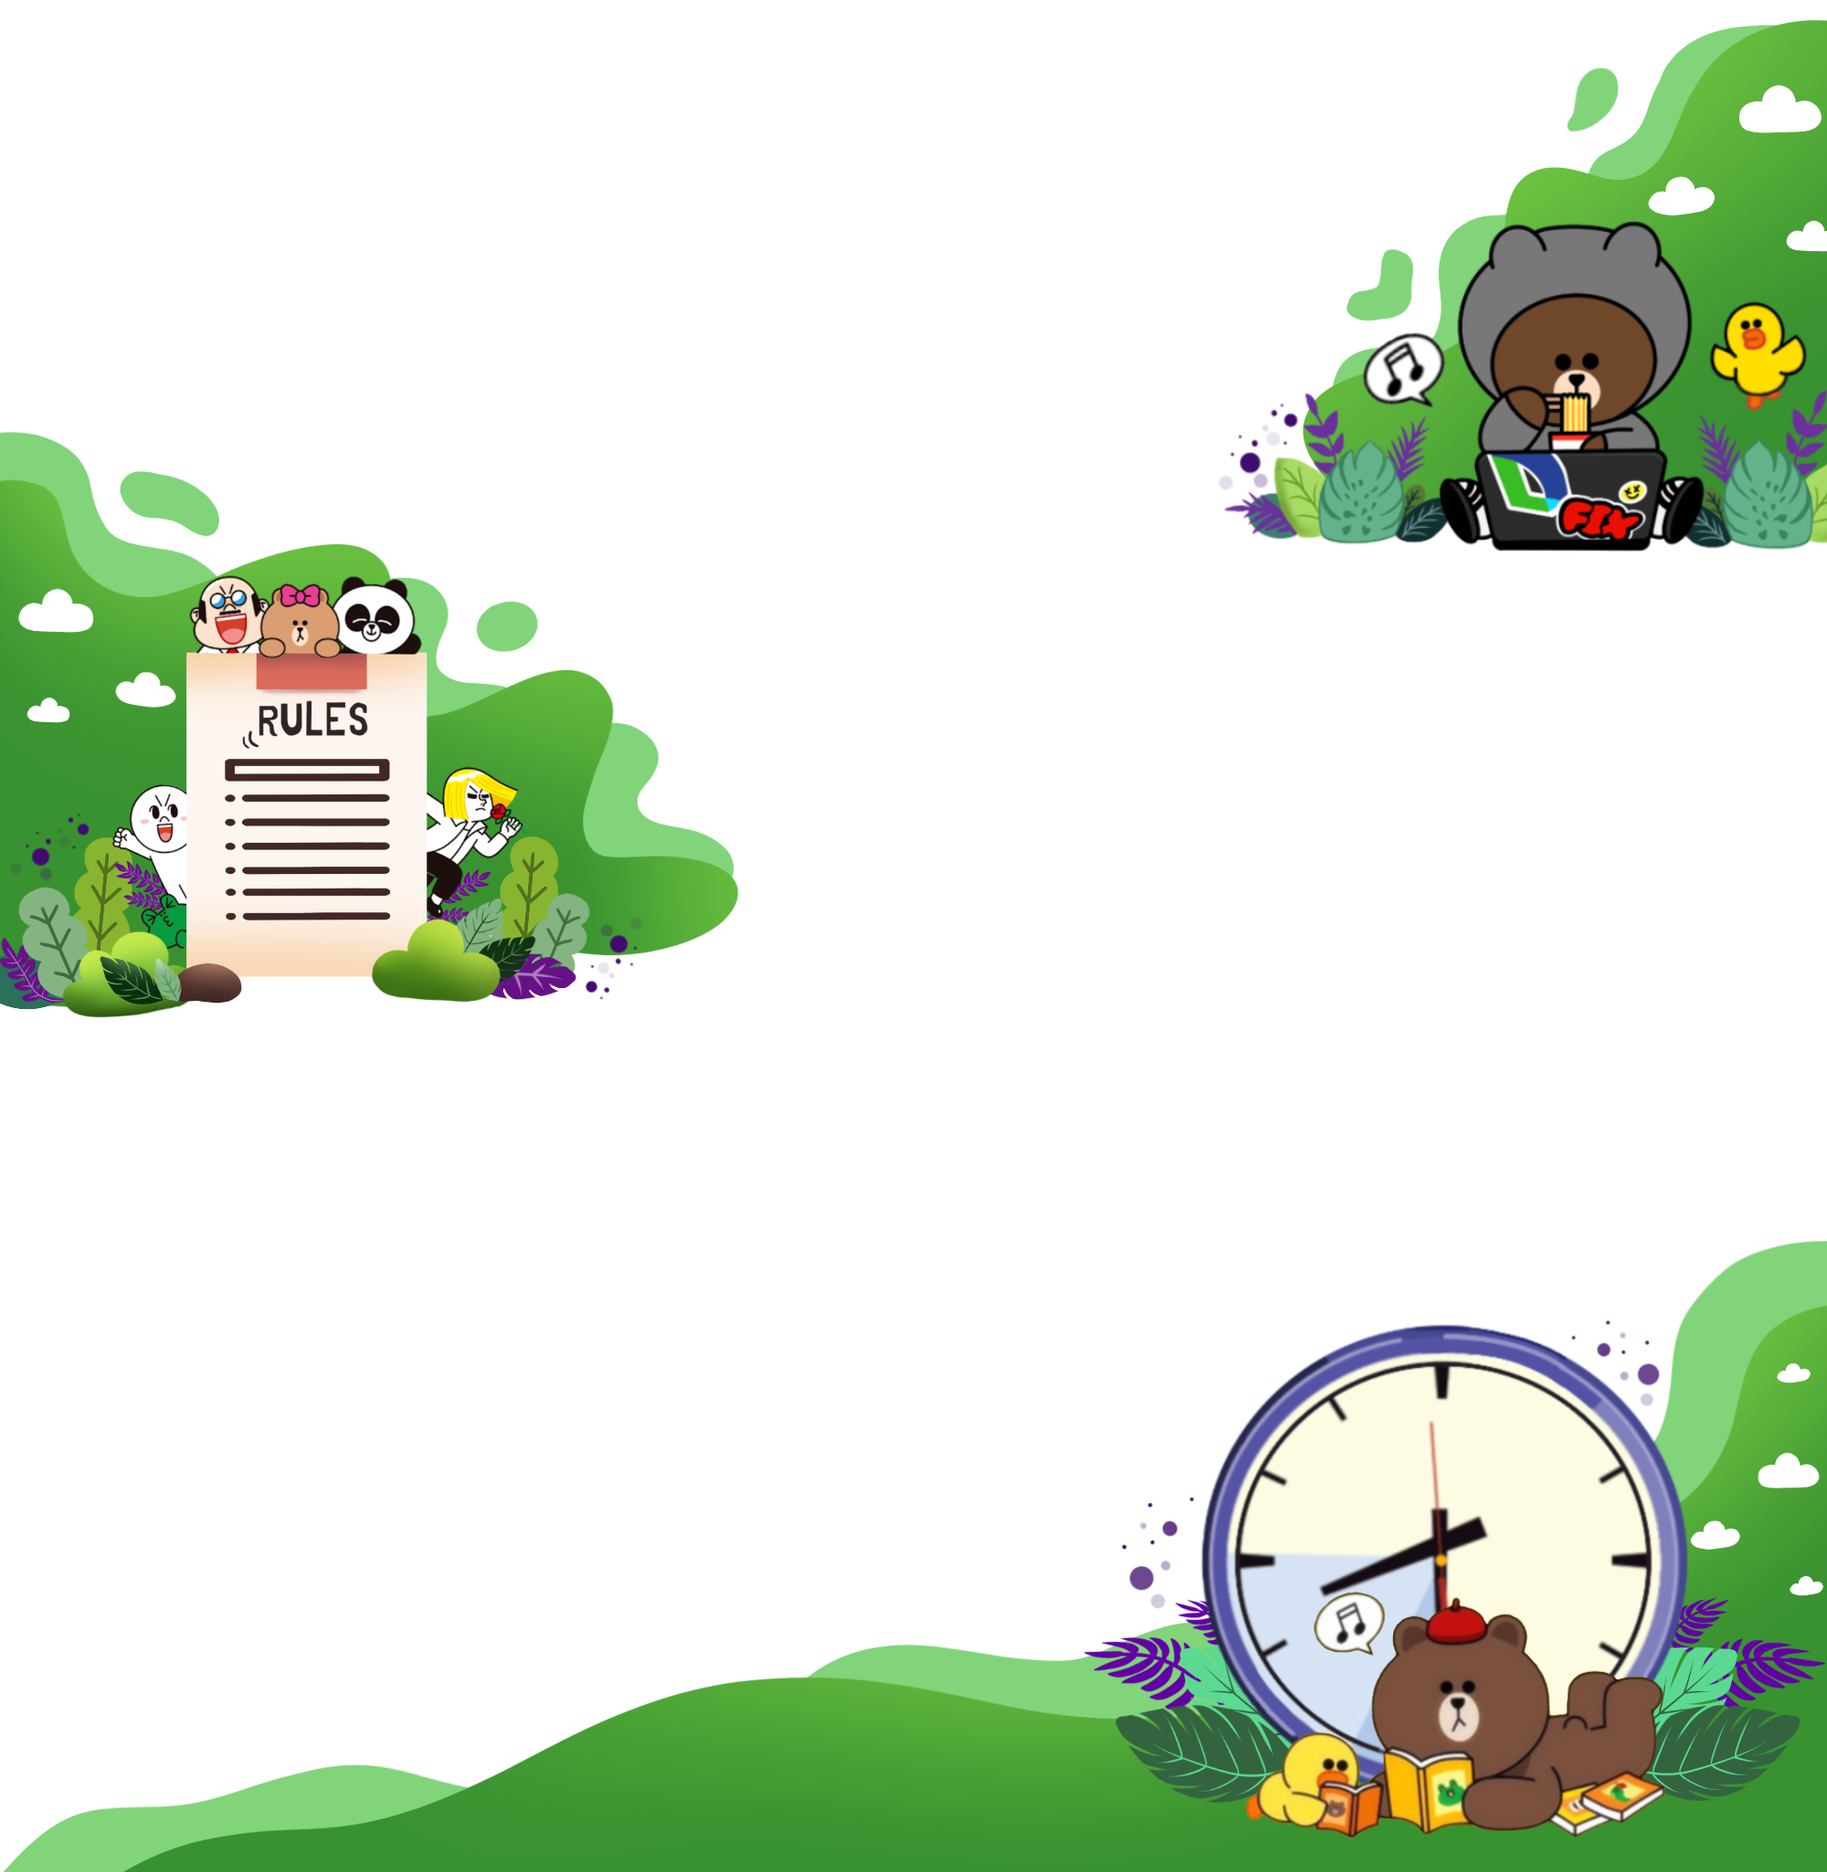
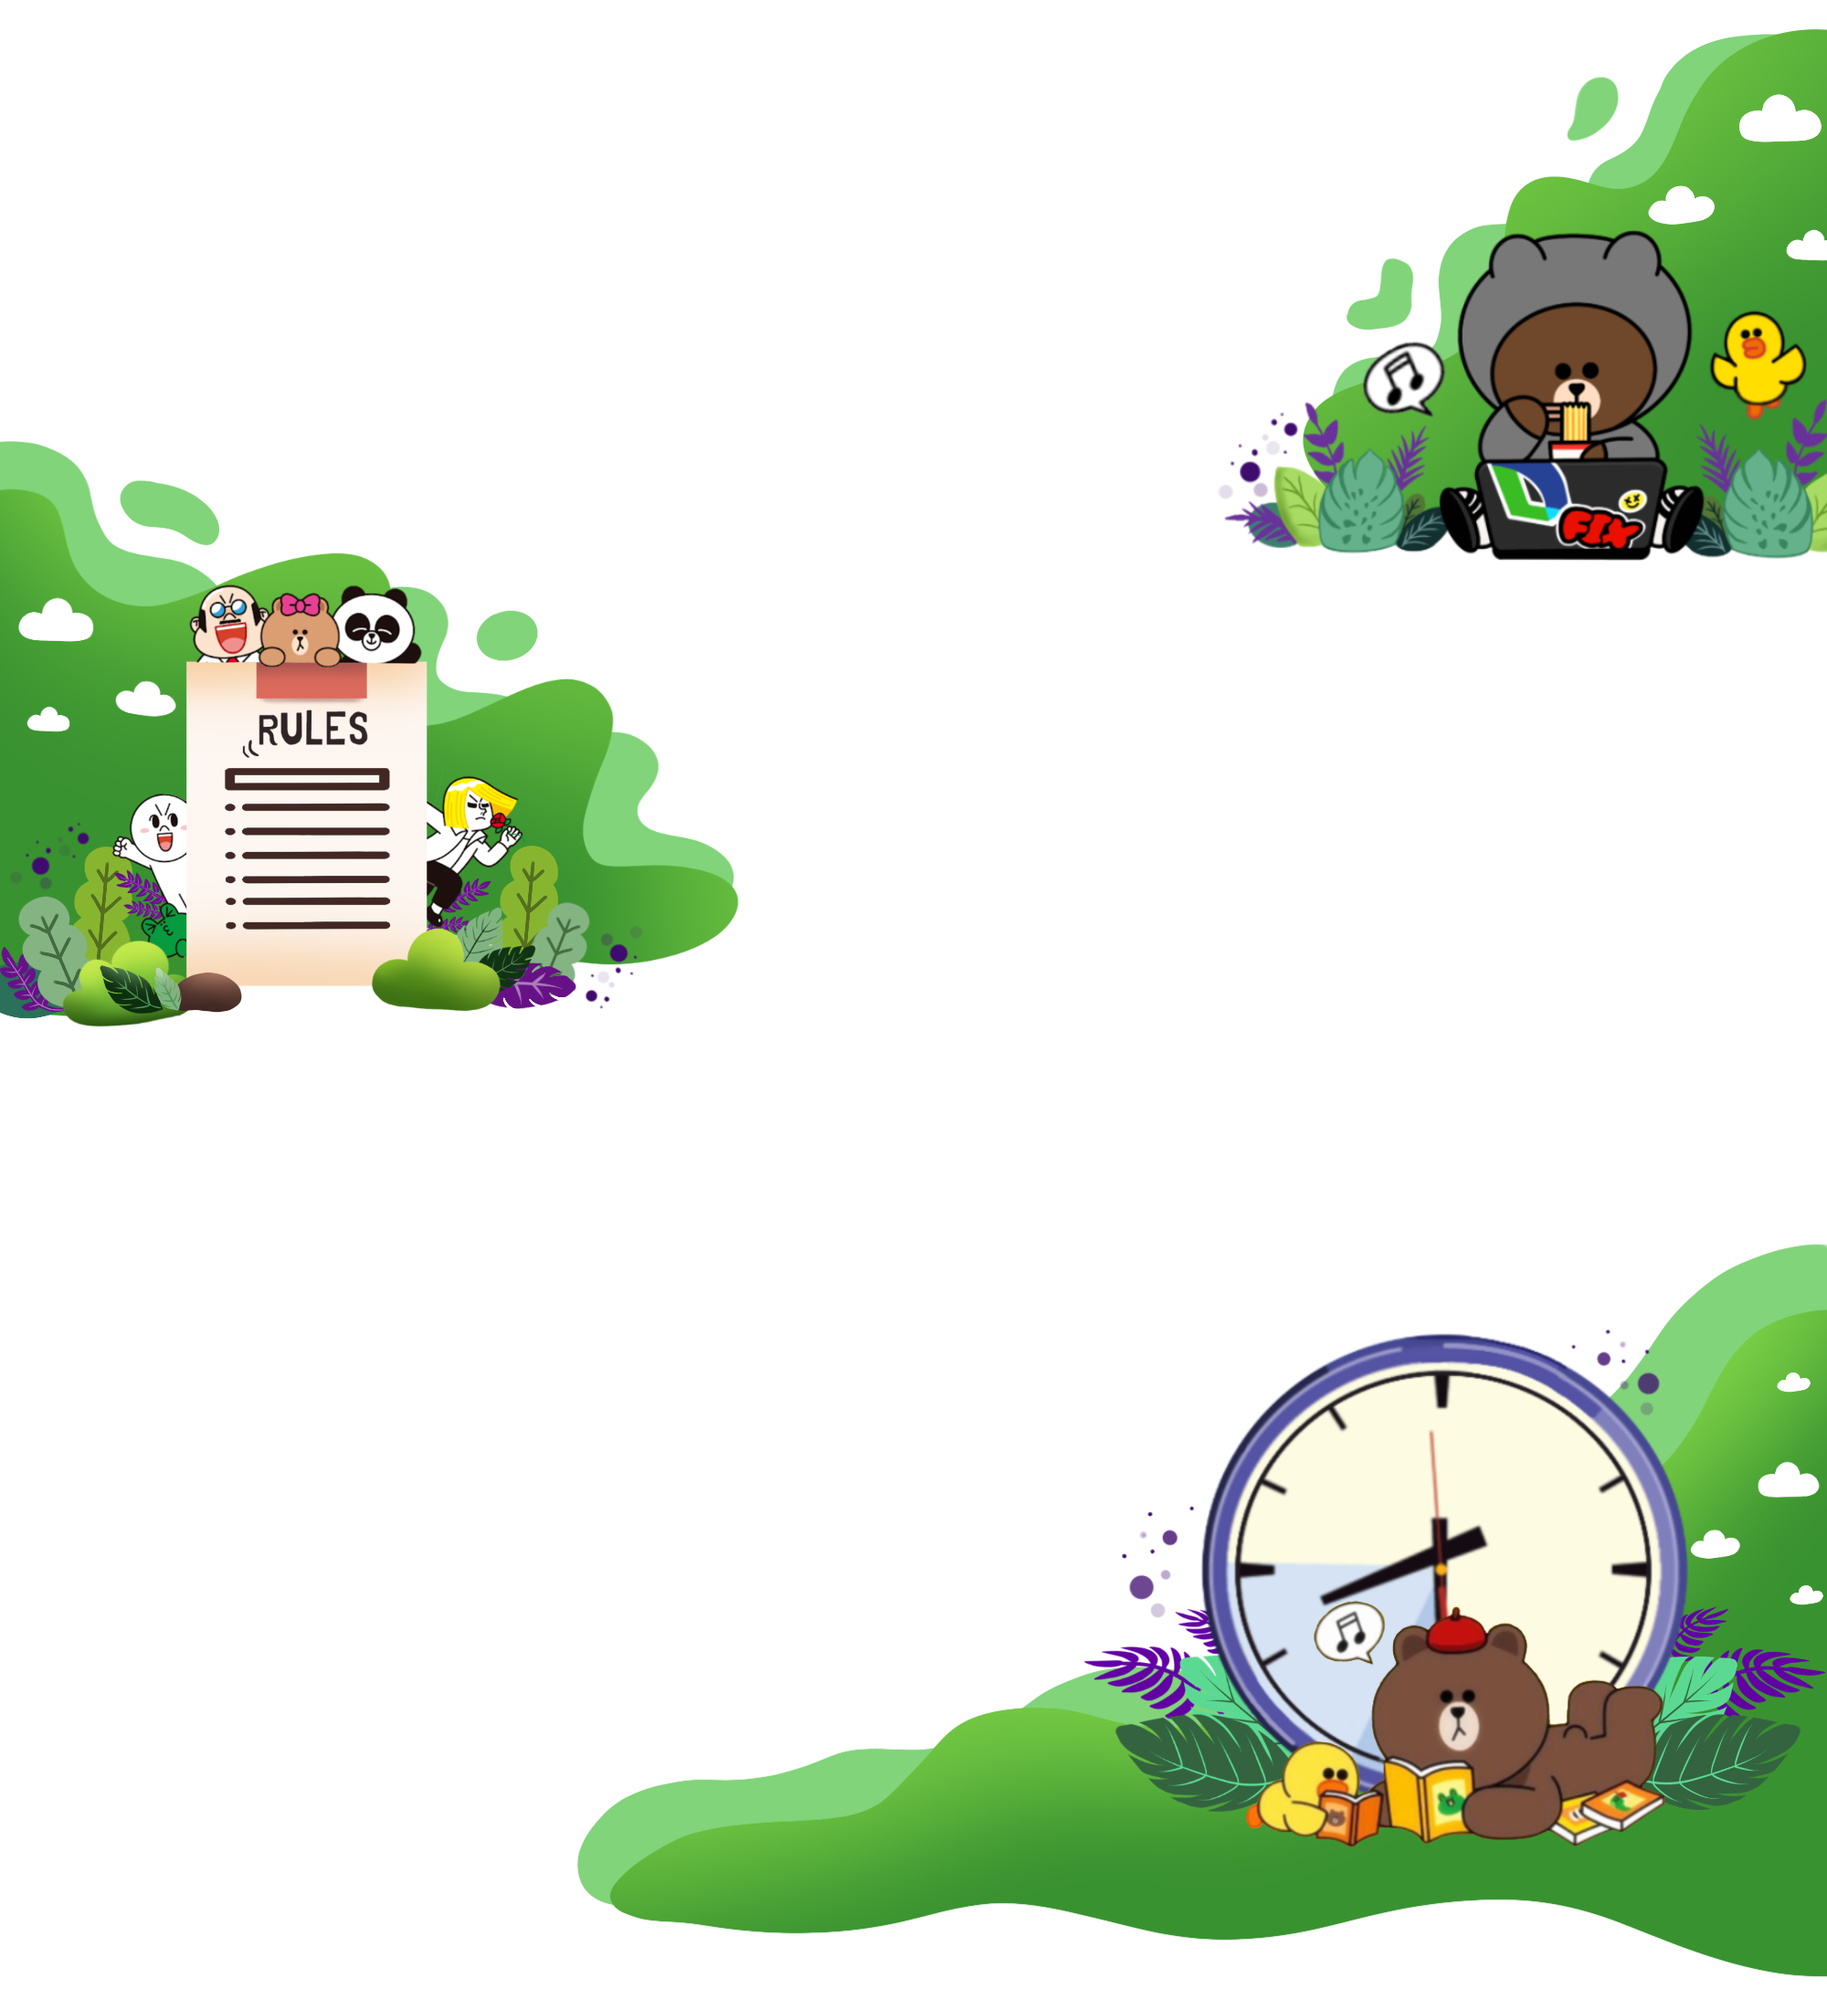
[Hackathon] -Edited little background

diff --git a/src/pages/hackathon/Hackathon.html b/src/pages/hackathon/Hackathon.html
@@ -1,11 +1,11 @@
 <section class="section" style="background-color: rgb(214, 254, 201);">
   <h1 class="title-bg">
-    <img src="@/assets/paper-back.png" style="width: 100%;">
+    <img src="@/assets/background-paper.png" style="width: 100%;">
   </h1>
   <div class="container">
     <div class="content">
       <div class="hero-body padding-img">
-        <div class="is-hidden-mobile" style="position: absolute; left: 50px; bottom: 240%; font-size: 19px;">
+        <div class="is-hidden-mobile" style="position: absolute; left: 50px; bottom: 250%; font-size: 19px;">
       <h1>Hackathon</h1>
 
       <p>Each team must build and present a product made using <a href="https://developers.line.biz/en/">LINE
